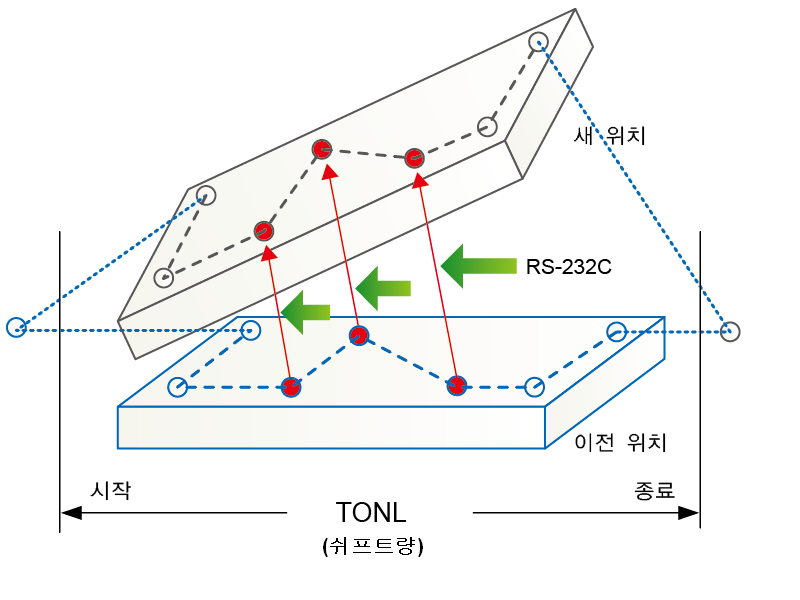
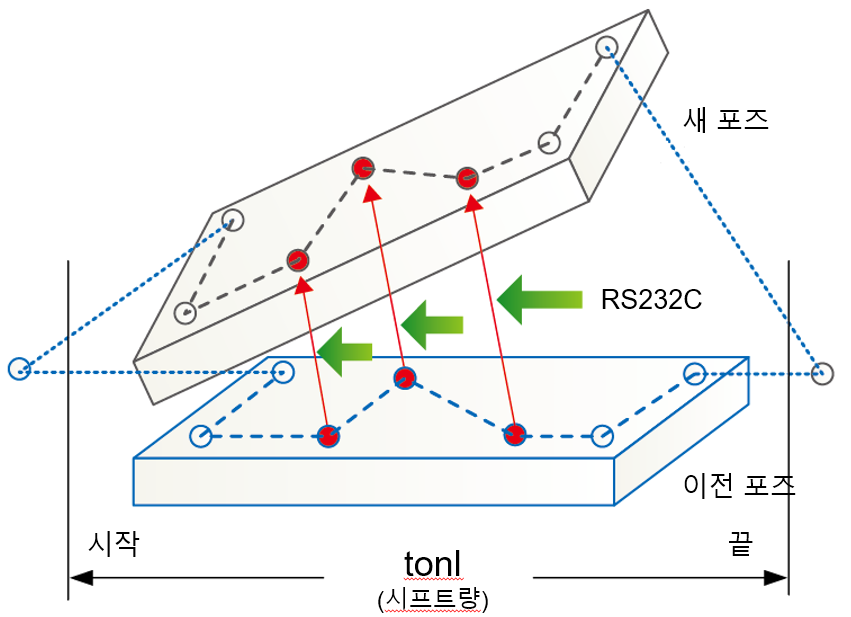
10장 오류 정정.

diff --git a/10-etc/3-sysvar/3-_tool.md b/10-etc/3-sysvar/3-_tool.md
@@ -4,30 +4,30 @@
 
 툴데이터를 읽거나 변경하기 위한 시스템 변수입니다.   
 
-- 생성된 툴데이터(무게/중심/이너셔)를 읽거나 해당 툴데이터를 변경합니다.
-- 툴데이터가 생성되지 않았거나 맴버가 유효하지 않은 경우, 에러가 발생하면서 job 실행이 중단됩니다.
+- 등록된 툴데이터(무게/무게중심/이너셔)를 읽거나 해당 툴데이터를 변경합니다.
+- 툴데이터가 등록되지 않았거나 멤버가 유효하지 않은 경우, 에러가 발생하면서 job 실행이 중단됩니다.
 
 
 ### 문법
 
 ```python
-<쉬프트변수> = _tool3
-_tool3 = <쉬프트변수>
-_tool[3] = <쉬프트변수>
-_tool[5].mass = <산술변수>
-_tool[5].cx = <산술변수>
-_tool[5].cy = <산술변수>
-_tool[5].cz = <산술변수>
-_tool[5].ixx = <산술변수>
-_tool[5].iyy = <산술변수>
-_tool[5].izz = <산술변수>
+<시프트변수> = _tool3
+_tool3 = <시프트>
+_tool[3] = <시프트>
+_tool[5].mass = <산술식>
+_tool[5].cx = <산술식>
+_tool[5].cy = <산술식>
+_tool[5].cz = <산술식>
+_tool[5].ixx = <산술식>
+_tool[5].iyy = <산술식>
+_tool[5].izz = <산술식>
 ```
 
 
 ### 에러 가이드
 
-- E14550 : 툴데이터의 맴버가 유효하지 않은 경우 발생합니다. 설정된 툴데이터의 맴버가 mass, cx, cy, cz, ixx, iyy, izz인지 확인하십시오.
-- E14286 : 대입문 우변으로 쉬프트변수가 아닌 경우이거나 툴변수의 맴버가 유효하지 않은 경우에 발생합니다. 대입문 우변을 다시 지정하십시오.
+- E14550 : 툴데이터의 멤버가 유효하지 않은 경우 발생합니다. 설정된 툴데이터의 맴버가 mass, cx, cy, cz, ixx, iyy, izz인지 확인하십시오.
+- E14286 : 대입문 우변으로 시프트변수가 아닌 경우이거나 툴변수의 맴버가 유효하지 않은 경우에 발생합니다. 대입문 우변을 다시 지정하십시오.
 
 
 ### 사용 예
@@ -38,6 +38,4 @@ _tool[5].izz = <산술변수>
    move L,spd=30%,accu=1,tool=3
    end
 ```
-
-![](../../_assets/_tool.png)
 

diff --git a/10-etc/2-func/1-rducs.md b/10-etc/2-func/1-rducs.md
@@ -1,8 +1,8 @@
 # 10.2.1 rducs함수 - 사용자좌표계
 
-### 설명
+생성된 사용자좌표계를 포즈로 읽는 명령어입니다.
 
-생성된 사용자좌표계를 포즈로 읽는 명령어입니다.   
+### 설명
 
 - 생성된 사용자 좌표계의 위치/방향이 해당 포즈 값으로 복사합니다.
 - 생성되지 않았거나 파라미터가 유효하지 않은 경우, 에러가 발생하면서 job 실행이 중단됩니다.
@@ -45,7 +45,7 @@
     <tr>
       <td style="text-align:left">포즈변수</td>
       <td style="text-align:left">
-        복사할 포즈변수
+        위치/방향을 전달받을 변수
       </td>
       <td style="text-align:left">포즈변수</td>
     </tr>
@@ -77,7 +77,7 @@
 
 ### 에러 가이드
 
-- E14613 : 설정된 파라미터가 지정된 형식과 맞지 않을 때 발생합니다. 설정된 파라미터를 확인하십시오.
+- E14613 : 실 파라미터가 형식 파라미터와 형식이 맞지 않을 때 발생합니다. 실 파라미터를 확인하십시오.
 - E14614 : 사용자좌표번호가 숫자가 아닐때 발생합니다. 사용자좌표번호를 다시 지정하십시오.
 - E14615 : 사용자좌표번호가 1~20 사이의 숫자가 아닐 때 발생합니다. 사용자좌표번호를 변경하십시오.
 - E1336 : 등록되지 않은 사용자좌표번호인 경우에 발생합니다. 사용자좌표번호를 변경하십시오.
@@ -87,7 +87,7 @@
 
 ```python
    var p_uc2=Pose(0,0,0,0,0,0,"base")
-   var uc2=rducs(2,p_uc2)
+   var res=rducs(2,p_uc2)
    end
 ```
 

diff --git a/10-etc/1-proc/5-int_def.md b/10-etc/1-proc/5-int_def.md
@@ -56,19 +56,19 @@ int_def <on/off>,no=<인터럽트 번호>,var=<인터럽트 조건>,val=<조건 
       <td style="text-align:left">
         정의 또는 삭제할 인터럽트 번호를 지정<br>
       </td>
-      <td style="text-align:left">산술식</td>
+      <td style="text-align:left">산술식(1~8)</td>
     </tr>
     <tr>
       <td style="text-align:left">인터럽트 조건</td>
       <td style="text-align:left">
         인터럽트를 발생시킬 조건식을 정의<br>
       </td>
-      <td style="text-align:left">산술식</td>
+      <td style="text-align:left">변수</td>
     </tr>
     <tr>
       <td style="text-align:left">조건 일치값</td>
       <td style="text-align:left">
-        인터럽트 발생을 위한 인터럽트를 조건식의 값<br>
+        인터럽트 발생을 위한 인터럽트의 조건식의 값<br>
       </td>
       <td style="text-align:left">산술식</td>
     </tr>
@@ -80,7 +80,7 @@ int_def <on/off>,no=<인터럽트 번호>,var=<인터럽트 조건>,val=<조건 
       <td style="text-align:left">산술식</td>
     </tr>
     <tr>
-      <td style="text-align:left">[once]]</td>
+      <td style="text-align:left">[once]</td>
       <td style="text-align:left">
         옵션 파라미터로 인터럽트 감시 구간내에서 인터럽트가 수회 발생하더라도 모두 처리하지 않고 처음 발생한 인터럽트 1회만 처리하고자 할때 사용<br>
       </td>

diff --git a/10-etc/1-proc/2-tonl.md b/10-etc/1-proc/2-tonl.md
@@ -15,7 +15,7 @@ R=[x,y,z,rx,ry,rz]
 ### 문법
 
 ```python
-tonl <시작/종료>,<쉬프트량>
+tonl <시작/종료>,<시프트량>
 ```
 
 ### 파라미터
@@ -38,15 +38,14 @@ tonl <시작/종료>,<쉬프트량>
         <li>off: 종료</li>
         </ul>
       </td>
-      <td style="text-align:left">문자열식</td>
+      <td style="text-align:left">on/off</td>
     </tr>
     <tr>
-      <td style="text-align:left">쉬프트량</td>
+      <td style="text-align:left">시프트량</td>
       <td style="text-align:left">
-        복사할 디렉토리 경로,<br>
-        혹은 복사할 파일의 경로파일명
+        시프트할 양
       </td>
-      <td style="text-align:left">쉬프트변수</td>
+      <td style="text-align:left">시프트변수</td>
     </tr>
   </tbody>
 </table>
@@ -55,7 +54,7 @@ tonl <시작/종료>,<쉬프트량>
 
 ```python
    global sft
-   enet1.recv msg #이더넷 통신으로 쉬프트량 수신
+   enet1.recv msg # 이더넷 통신으로 시프트량 수신
    sft=Shift(msg)
    tonl on,sft
    move L,spd=50mm/s,accu=0,tool=1

diff --git a/10-etc/1-proc/4-triggout.md b/10-etc/1-proc/4-triggout.md
@@ -51,7 +51,7 @@ triggout <출력변수>,val=<출력값>,time=<선출/후출 거리>,j=<축방향
       <td style="text-align:left">선출/후출 시간</td>
       <td style="text-align:left">
         -10.00 ~ 2.00 [s]<br>
-        (-)인 경우 목표위치 도달전 신호가 출력되며 (+)인 경우 도달후 출력됩니다.
+        (-)인 경우 목표위치 도달 전 신호가 출력되며 (+)인 경우 도달 후 출력됩니다.
       </td>
       <td style="text-align:left">산술식</td>
     </tr>
@@ -59,7 +59,7 @@ triggout <출력변수>,val=<출력값>,time=<선출/후출 거리>,j=<축방향
       <td style="text-align:left">선출/후출 거리</td>
       <td style="text-align:left">
         -3000 ~ 3000 [mm]<br>
-        목표위치 도달시 신호가 출력됩니다.
+        (-)인 경우 목표위치 도달 전 신호가 출력되며 (+)인 경우 도달 후 출력됩니다.
       </td>
       <td style="text-align:left">산술식</td>
     </tr>

diff --git a/10-etc/1-proc/1-gather.md b/10-etc/1-proc/1-gather.md
@@ -31,13 +31,12 @@ gather <시작/종료>
   <tr>
       <td style="text-align:left">시작/종료</td>
       <td style="text-align:left">
-        선택할 사용자 좌표계 번호<br>
         <ul>
         <li>1: 데이터 수집 시작</li>
         <li>0: 데이터 수집 종료</li>
         </ul>
       </td>
-      <td style="text-align:left">변수</td>
+      <td style="text-align:left">산술식</td>
     </tr>
   </tbody>
 </table>

diff --git a/10-etc/1-proc/6-typeof.md b/10-etc/1-proc/6-typeof.md
@@ -1,11 +1,11 @@
 # 10.1.6 typeof문
 
-typeof문은 변수의 타입을 확인하는 프로시져입니다. 결과는 result() 함수로 리턴받습니다.
+typeof문은 변수나 식의 타입을 확인하는 프로시져입니다. 결과는 result() 함수로 리턴받습니다.
 
 ### 문법
 
 ```python
-typeof <변수>
+typeof <식>
 ```
 
 

diff --git a/10-etc/1-proc/3-seltool.md b/10-etc/1-proc/3-seltool.md
@@ -61,6 +61,3 @@ seltool <툴번호>,<툴타입>
    move P,spd=30%,accu=0,tool=1
    end
 ```
-
-![](../../_assets/seltool.png)
-
